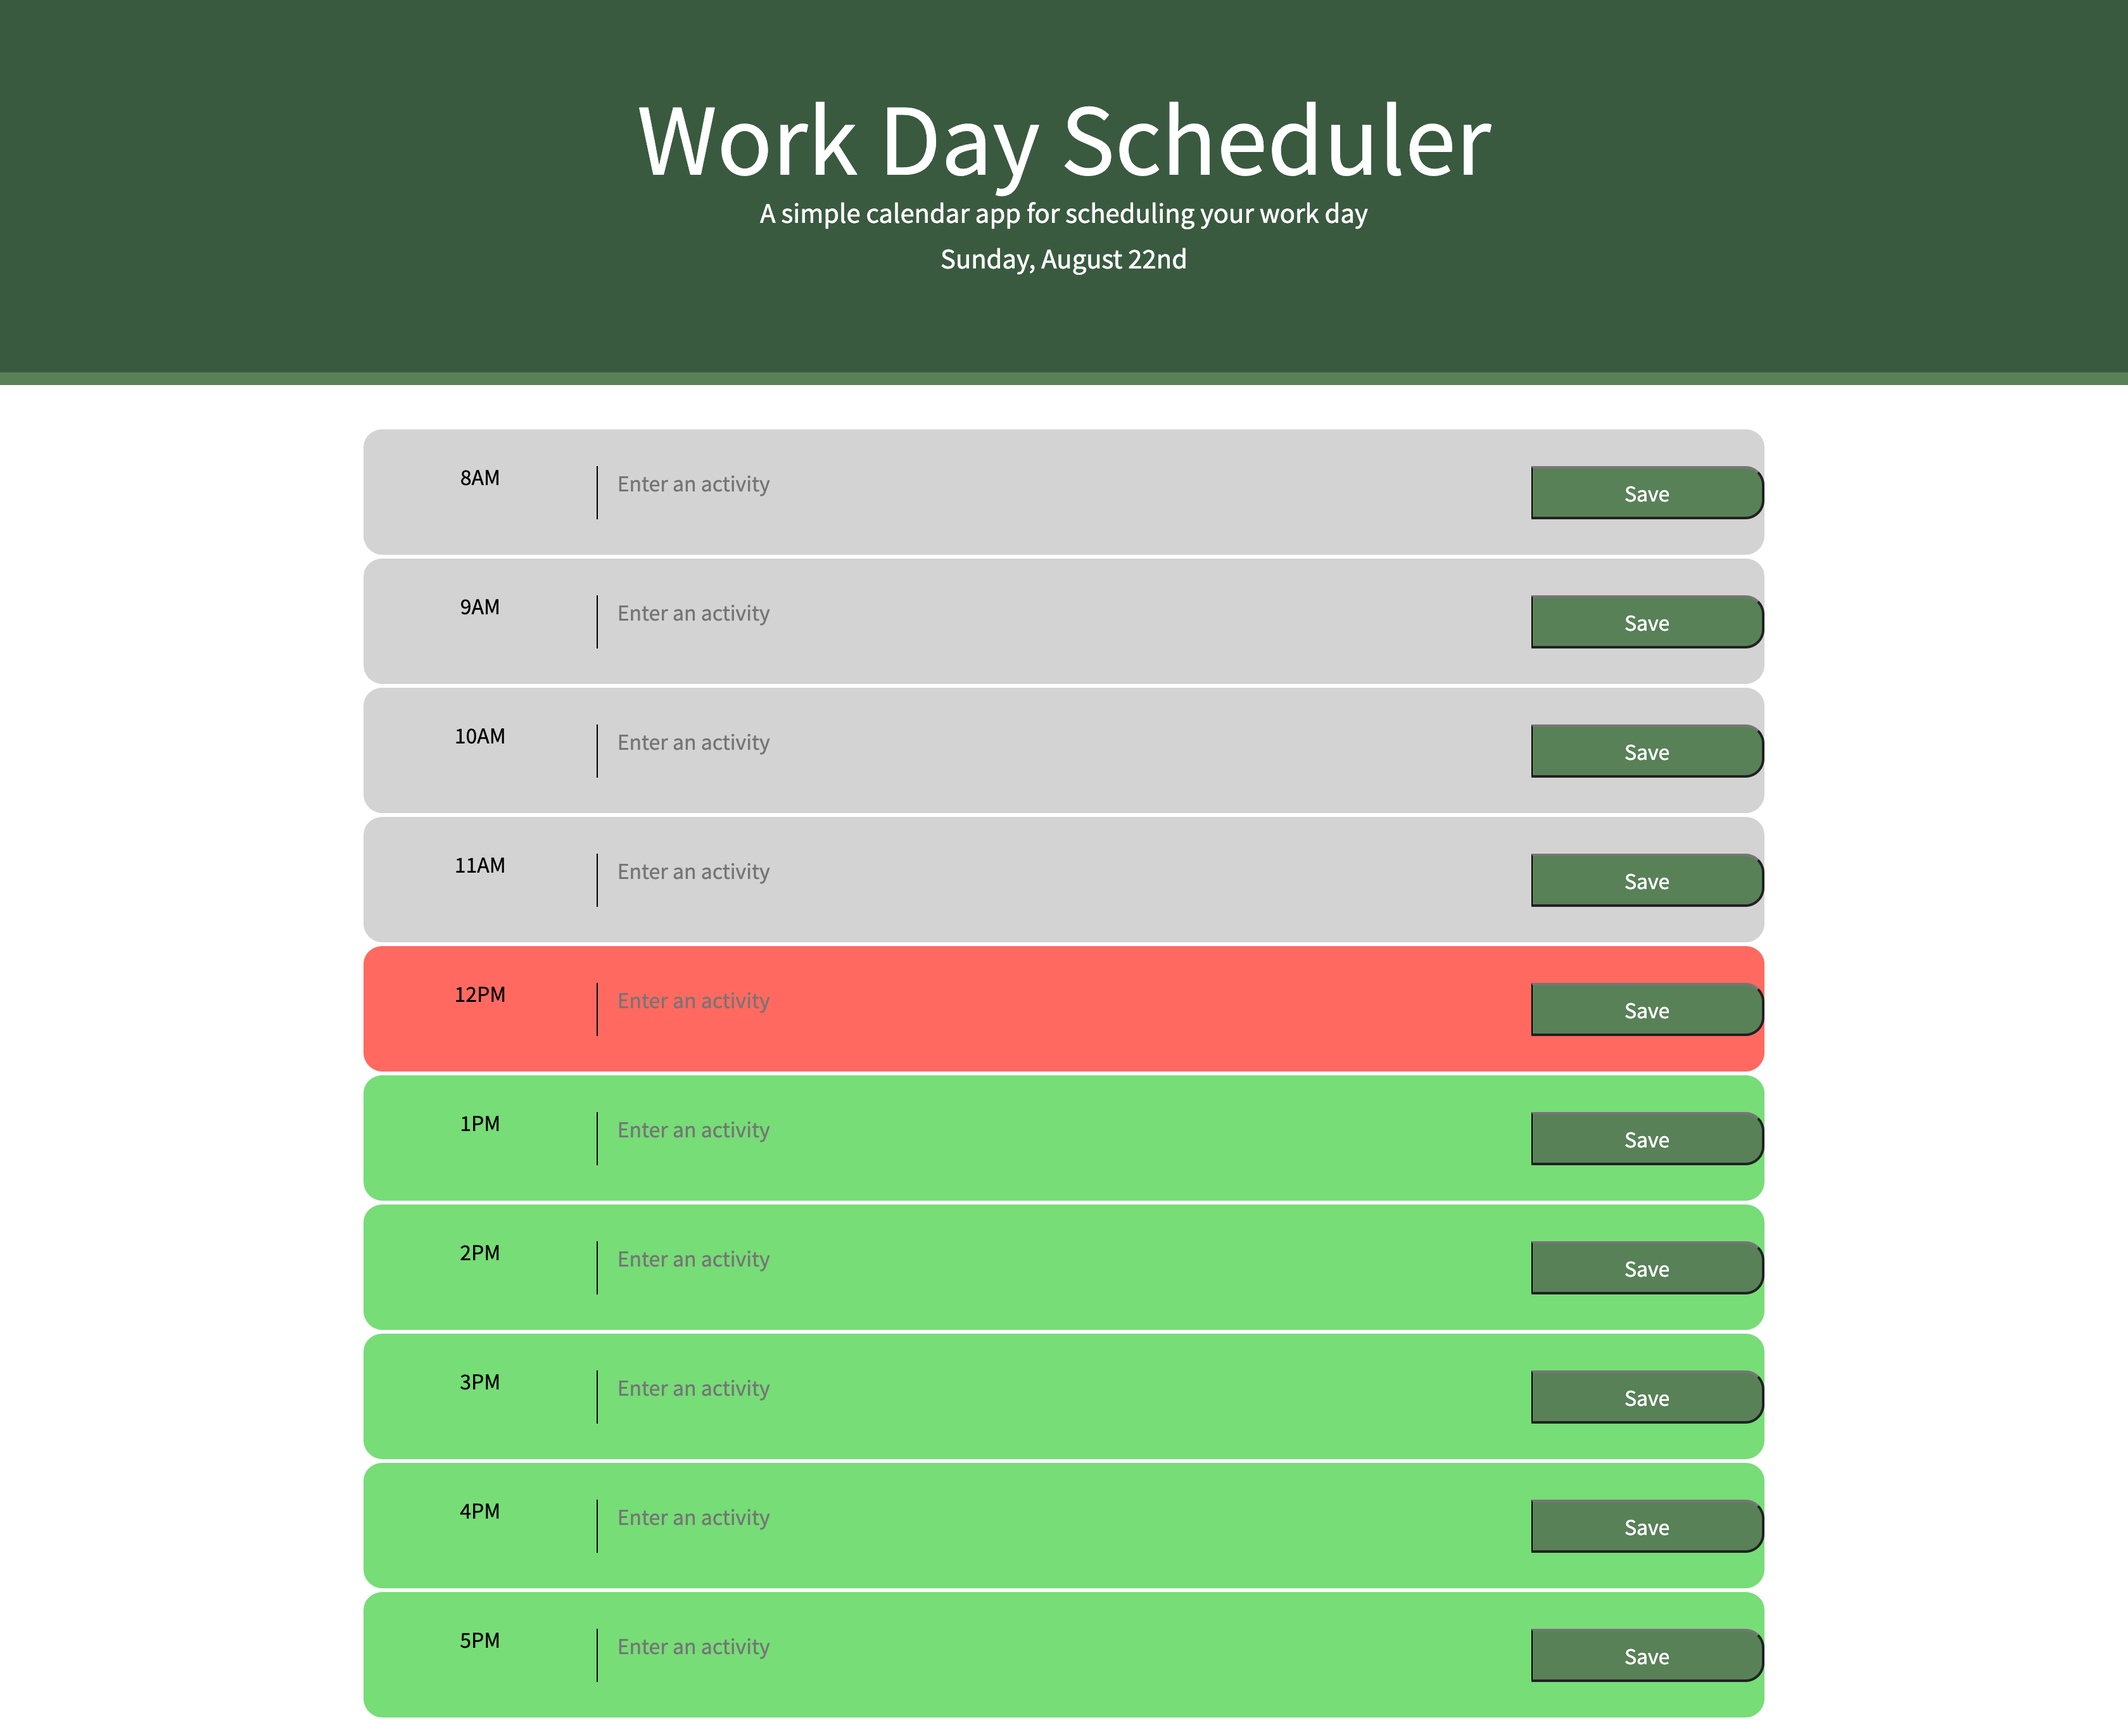
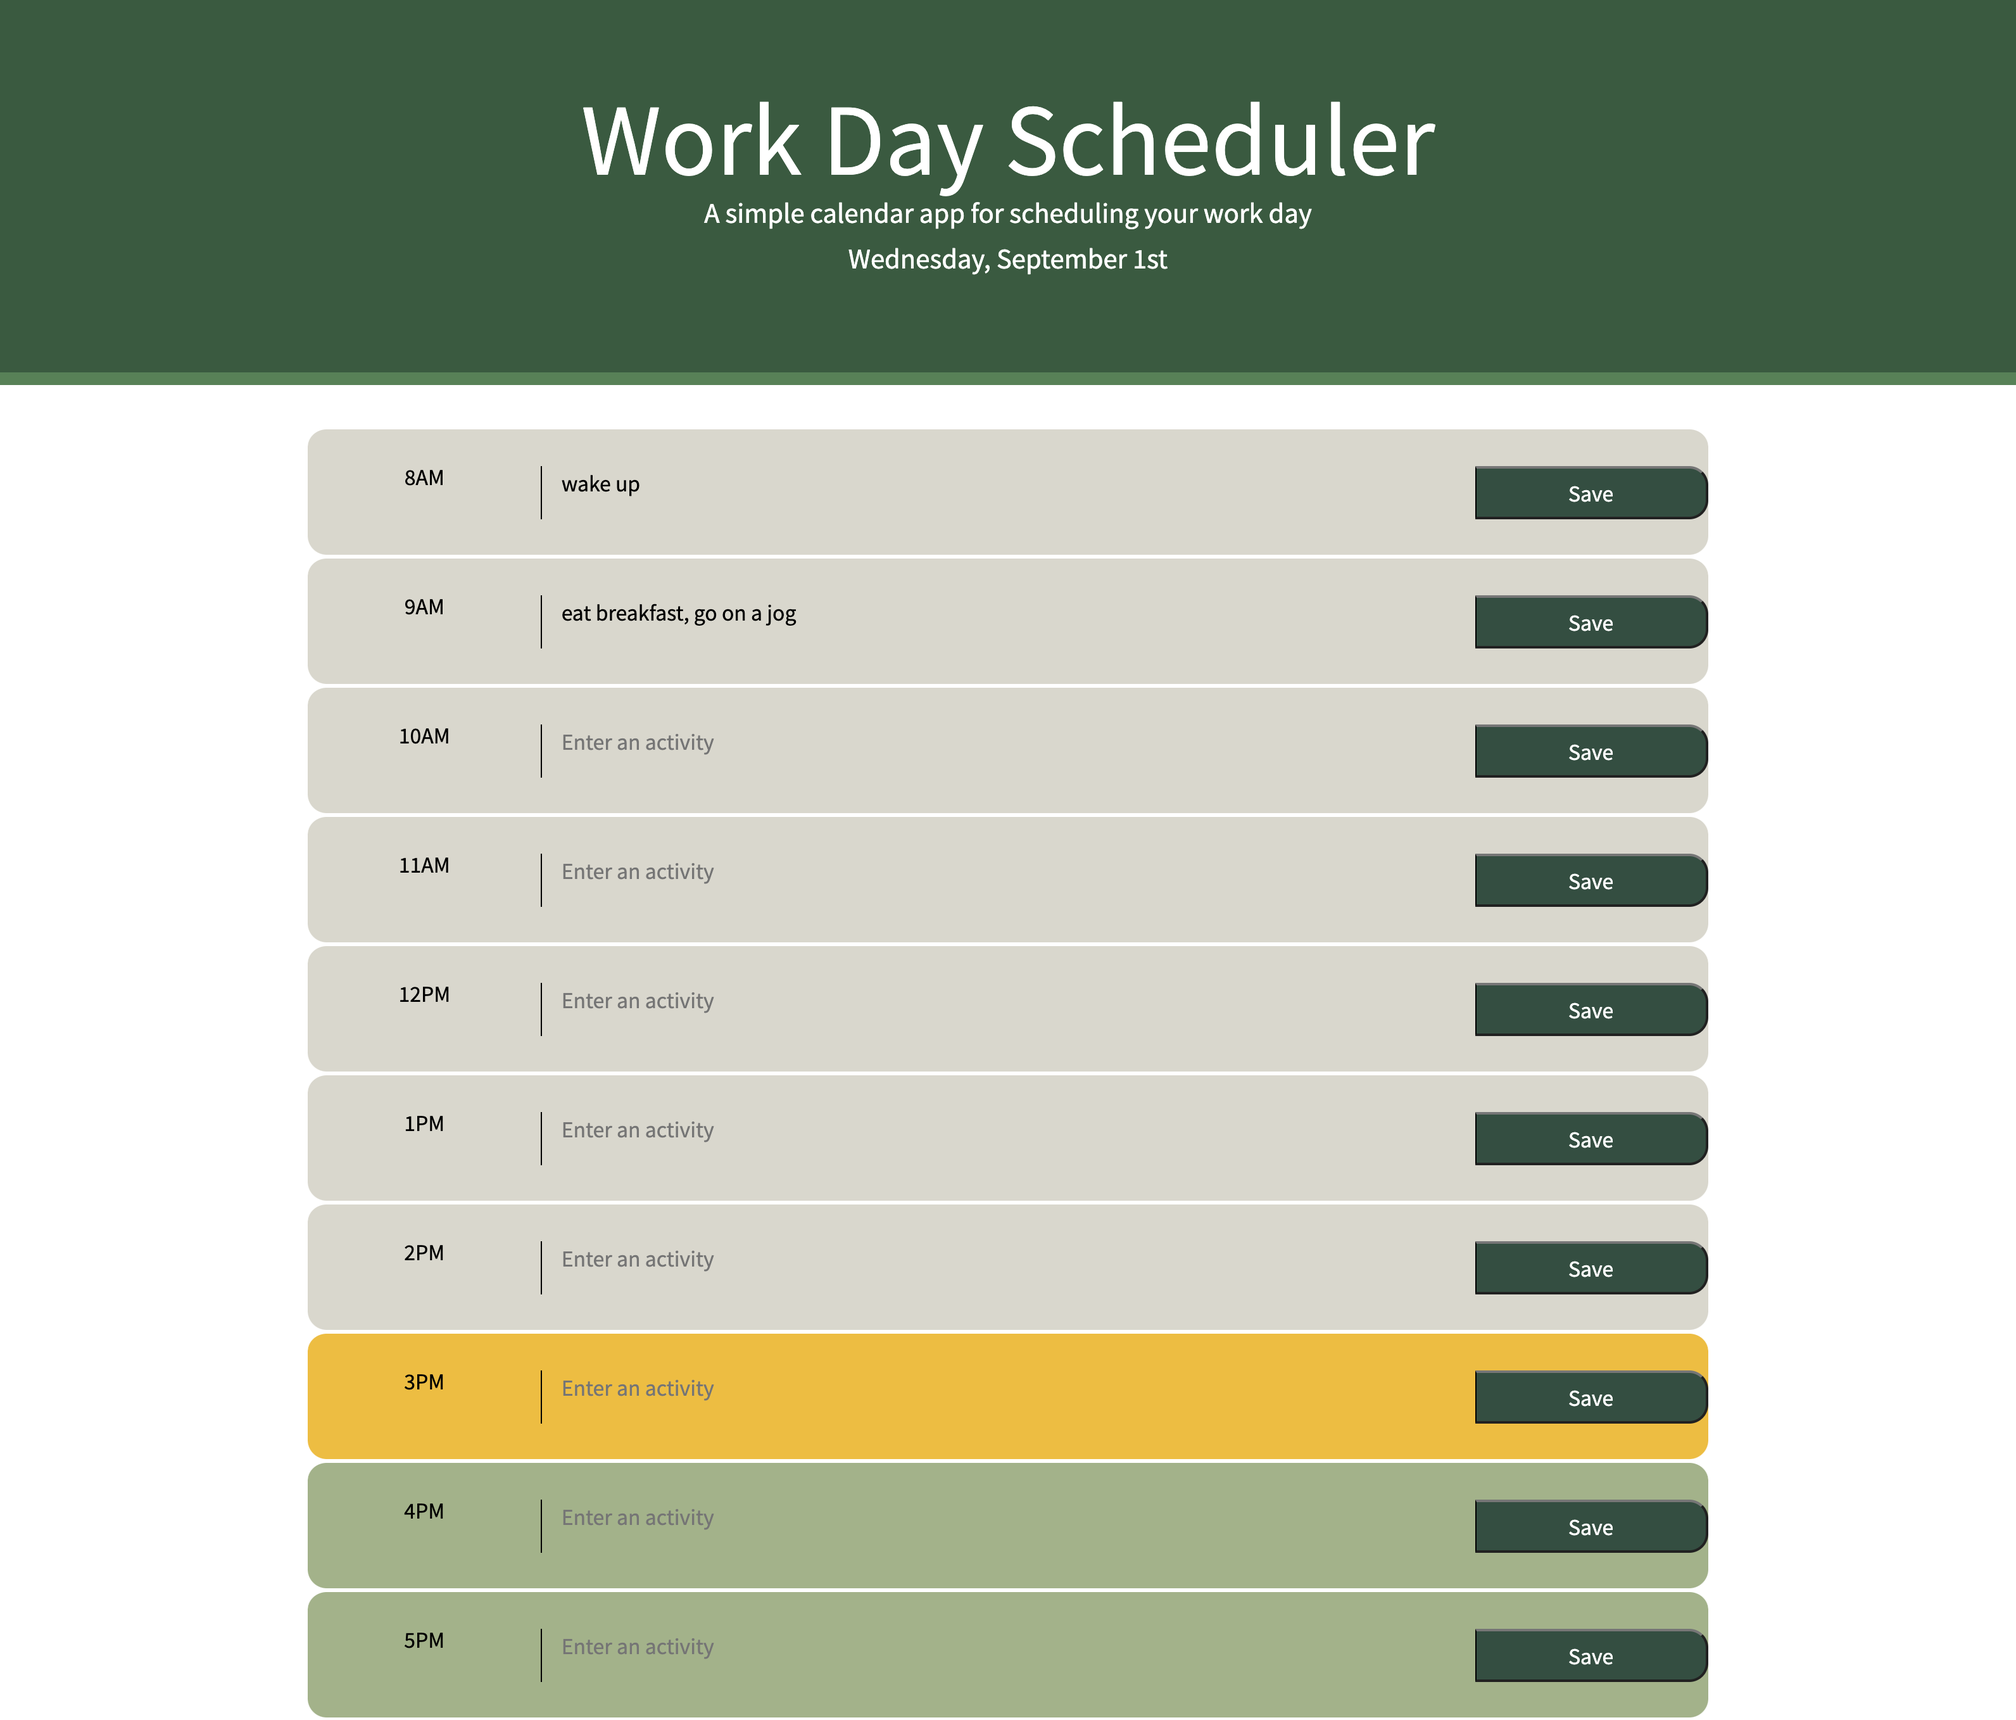
updated readme with new images

diff --git a/README.md b/README.md
@@ -12,6 +12,16 @@ For installation and deployment, please [click here](https://candiceywu.github.i
 HTML, CSS, Bootstrap, JavaScript, jQuery and Moment.js were utilized for this application.
 
 ## Usage
-The user can store their work day's activities in this daily planner. The user can enter an activity and click the 'save' button so that the activity will be saved into local storage. If the user refreshes or closes the tab, and re-loads the page, the activities will still show up so the user doesn't lose their notes of planned activities for that day. The following image shows the web application's appearance:
+The user can store their work day's activities in this daily planner. The user can enter an activity and click the 'save' button so that the activity will be saved into local storage. If the user refreshes or closes the tab, and re-loads the page, the activities will still show up so the user doesn't lose their notes of planned activities for that day. The following images show the web application's appearance, and if the user refreshes the page it will still show previous entries (second image):
 
-![Candice Wu's Daily Planner application includes a workday range of 8AM to 5PM with a text area that users can enter their activities in. The save button next to the text box will save the user's entries and display again if the page is closed/refreshed and opened again.](assets/screencapture.png)
+![Candice Wu's Daily Planner application includes a workday range of 8AM to 5PM with a text area that users can enter their activities in.](assets/screencapture.png)
+
+![The save button next to the text box will save the user's entries and display again if the page is closed/refreshed and opened again.](assets/screencapture2.png)
+
+## License & Copyright
+
+(c) Candice Wu 
+
+contact: candice.ying.wu@gmail.com 
+
+Licensed under the MIT License.
